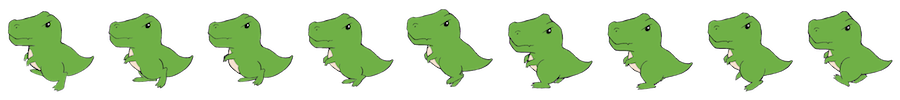
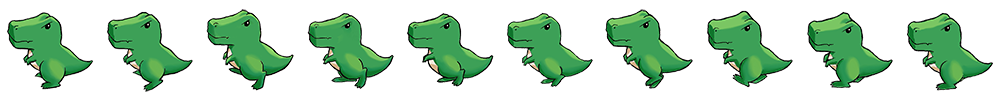
Updated assets and added dinosaur shadows

diff --git a/core/src/tiktaalik/trino/Canvas.java b/core/src/tiktaalik/trino/Canvas.java
@@ -25,10 +25,12 @@ public class Canvas {
 	}	
 
 	private PolygonSpriteBatch spriteBatch; // Drawing context to handle textures AND POLYGONS as sprites
+	private ShapeRenderer shadowRender; // Rendering context for shadows
 	private ShapeRenderer debugRender; // Rendering context for the debug outlines
 	private DrawPass active; // Track whether or not we are active (for error checking)
 	private BlendState blend; // The current color blending mode
 	private OrthographicCamera camera; // Camera for the underlying SpriteBatch
+	private Color shadow = new Color(0.19f, 0.22f, 0, 0.7f);
 
 	// CACHE VARIABLES
 	int width; // Value to cache window width (if we are currently full screen)
@@ -46,6 +48,7 @@ public class Canvas {
 		active = DrawPass.INACTIVE;
 		spriteBatch = new PolygonSpriteBatch();
 		debugRender = new ShapeRenderer();
+		shadowRender = new ShapeRenderer();
 		
 		// Set the projection matrix (for proper scaling)
 		camera = new OrthographicCamera(getWidth(),getHeight());
@@ -75,6 +78,8 @@ public class Canvas {
 		}
 		spriteBatch.dispose();
     	spriteBatch = null;
+    	shadowRender.dispose();
+    	shadowRender = null;
     	local  = null;
     	global = null;
     	vertex = null;
@@ -296,7 +301,17 @@ public class Canvas {
 		spriteBatch.setProjectionMatrix(camera.combined);
     	spriteBatch.begin();
     	active = DrawPass.STANDARD;
+
     }
+
+    public void beginShadows() {
+		Gdx.gl.glEnable(GL20.GL_BLEND);
+		Gdx.gl.glBlendFunc(GL20.GL_SRC_ALPHA, GL20.GL_ONE_MINUS_SRC_ALPHA);
+		shadowRender.setProjectionMatrix(camera.combined);
+		shadowRender.begin(ShapeRenderer.ShapeType.Filled);
+		active = DrawPass.STANDARD;
+	}
+
 
     public void beginOverlay() {
     	spriteBatch.setProjectionMatrix(cameraMatrix);
@@ -311,6 +326,12 @@ public class Canvas {
     	spriteBatch.end();
     	active = DrawPass.INACTIVE;
     }
+
+    public void endShadows() {
+    	shadowRender.end();
+		Gdx.gl.glDisable(GL20.GL_BLEND);
+    	active = DrawPass.INACTIVE;
+	}
 
 	/**
 	 * Draws the tinted texture at the given position.
@@ -637,6 +658,25 @@ public class Canvas {
 		// Invert and restore
 		local.inv();
 		computeVertices(local,region.getVertices());
+	}
+
+	public void drawShadow(CircleShape shape, float x, float y, float s) {
+		if (active != DrawPass.STANDARD) {
+			Gdx.app.error("Canvas", "Cannot draw without active begin()", new IllegalStateException());
+			return;
+		}
+
+		float d = shape.getRadius()*s;
+
+		shadowRender.setColor(shadow);
+		shadowRender.ellipse(x-d, y-d-5, 2*shape.getRadius()*s, shape.getRadius()*s, 20);
+
+//		float w = shape.getRadius()*sx;
+//		float h = shape.getRadius()*sy;
+//
+//		System.out.println("x: " + (x-w) + ", y: " + (y-h) + ", sx: " + 2*w + ", sy: " + shape.getRadius() * 2*h);
+//		shadowRender.setColor(color);
+//		shadowRender.ellipse(x-w, y-h, 2*w, 2*h, 12);
 	}
 	
 	/**

diff --git a/core/src/tiktaalik/trino/Level.java b/core/src/tiktaalik/trino/Level.java
@@ -384,8 +384,8 @@ public class Level {
             else d = -1;
             en.setType(ENEMY);
             en.setDrawScale(scale);
-            en.setTextureSet(filmStripDict.get("enemyLeft"), 9,
-                    filmStripDict.get("enemyRight"), 9,
+            en.setTextureSet(filmStripDict.get("enemyLeft"), 10,
+                    filmStripDict.get("enemyRight"), 10,
                     filmStripDict.get("enemyBack"), 8,
                     filmStripDict.get("enemyFront"), 10);
             en.setDirection(d);
@@ -443,11 +443,17 @@ public class Level {
         });
         canvas.draw(background, 0, 0);
         canvas.draw(background, 1270, 0);
-        for(GameObject g : drawObjects)
-            g.draw(canvas);
-
         canvas.end();
 
+        canvas.beginShadows();
+        avatar.drawShadow(canvas);
+        canvas.endShadows();
+
+        canvas.begin();
+        for(GameObject g : drawObjects)
+            g.draw(canvas);
+        canvas.end();
+        
         drawObjects.clear();
     }
 

diff --git a/core/src/tiktaalik/trino/GameController.java b/core/src/tiktaalik/trino/GameController.java
@@ -788,8 +788,8 @@ public class GameController implements ContactListener, Screen {
 					Filter filter = avatar.getFilterData();
 					filter.categoryBits = 0x0004;
 					avatar.setFilterData(filter);
-					avatar.setTextureSet(filmStripDict.get("carnivoreLeft"), 9,
-							filmStripDict.get("carnivoreRight"), 9,
+					avatar.setTextureSet(filmStripDict.get("carnivoreLeft"), 10,
+							filmStripDict.get("carnivoreRight"), 10,
 							filmStripDict.get("carnivoreBack"), 8,
 							filmStripDict.get("carnivoreFront"), 10);
 

diff --git a/core/src/tiktaalik/trino/duggi/Dinosaur.java b/core/src/tiktaalik/trino/duggi/Dinosaur.java
@@ -281,7 +281,12 @@ public abstract class Dinosaur extends GameObject {
         textureSet[direction].setFrame((int)animeframe);
         if (textureSet[direction] != null) {
             canvas.draw(textureSet[direction], Color.WHITE,origin.x,origin.y,getX()*drawScale.x,getY()*drawScale.x,0,1,1);
+
         }
+    }
+
+    public void drawShadow(Canvas canvas) {
+        canvas.drawShadow(shape,getX()*drawScale.x,getY()*drawScale.x,drawScale.x);
     }
 
     /**

diff --git a/desktop/src/tiktaalik/trino/desktop/DesktopLauncher.java b/desktop/src/tiktaalik/trino/desktop/DesktopLauncher.java
@@ -37,6 +37,7 @@ public class DesktopLauncher {
 		config.width  = 1280;
 		config.height = 720;
 		config.resizable = false;
+		config.samples = 4;
 		new LwjglApplication(new GDXRoot(), config);
 	}
 }
